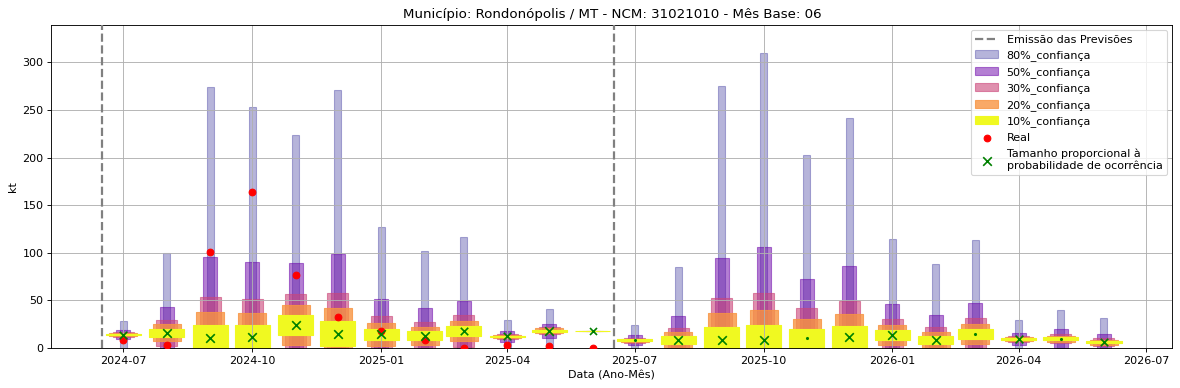
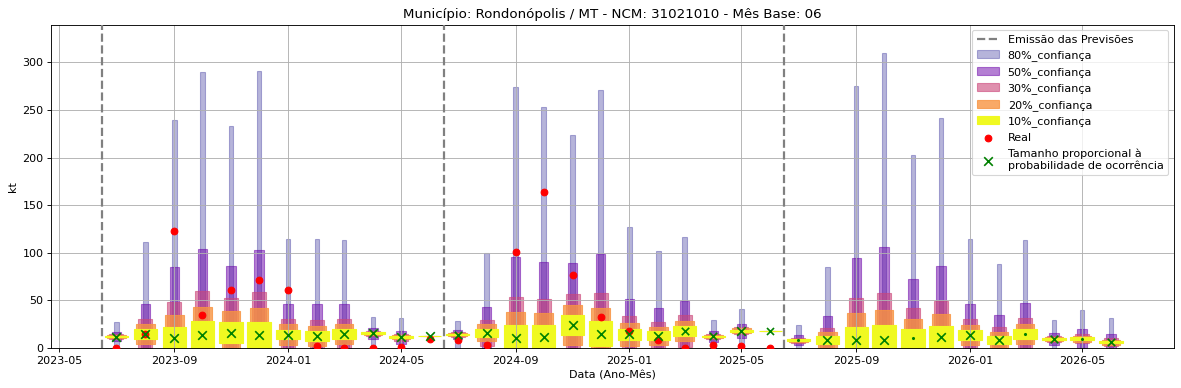
Atualização automática em lote

diff --git a/README.md b/README.md
@@ -17,59 +17,56 @@
 
 ![Gráfico de Previsão](31021010.png)
 
-Fator de Influência em Destaque:
+Fator de Influência em Destaque nos últimos 8 anos:
 
 Previsão Influenciada:
 - Município: Rondonópolis
 - Produto (NCM): Ureia, mesmo em solução aquosa, com teor de nitrogênio (azoto) superior a 45 %, em peso, calculado sobre o produto anidro no estado seco-31021010 
-- Mês previsto: 05
-
-        Fator Influenciador: Chuva
-        - Unidade mm_lag4
-        - Mês 02
-        - UF MA
+- Mês previsto: 09
 
 
-
+        Fator Influenciador: Comércio Exterior
+        - Produto Adubos (fertilizantes) (31)
+        - UF SC
+        - Unidade price_mun_lag25
+\n
 
 
 
 
 ![Gráfico de Previsão](31022100.png)
 
-Fator de Influência em Destaque:
+Fator de Influência em Destaque nos últimos 8 anos:
 
 Previsão Influenciada:
 - Município: Rondonópolis
 - Produto (NCM): Sulfato de amônio-31022100 
-- Mês previsto: 05
+- Mês previsto: 06
 
-        Fator Influenciador: Chuva
-        - Unidade mm_lag4
-        - Mês 02
+
+        Fator Influenciador: Comércio Exterior
+        - Produto Adubos (fertilizantes) (31)
         - UF PA
-
-
-
+        - Unidade kt_mun
+\n
 
 
 
 
 ![Gráfico de Previsão](31042090.png)
 
-Fator de Influência em Destaque:
+Fator de Influência em Destaque nos últimos 8 anos:
 
 Previsão Influenciada:
 - Município: Rondonópolis
 - Produto (NCM): Outros cloretos de potássio-31042090 
-- Mês previsto: 10
-
-        Fator Influenciador: Chuva
-        - Unidade mm_lag3
-        - Mês 04
-        - UF RO
+- Mês previsto: 11
 
 
-
+        Fator Influenciador: Comércio Exterior
+        - Produto Adubos (fertilizantes) (31)
+        - UF BA
+        - Unidade kt_lag1
+\n
 
 
